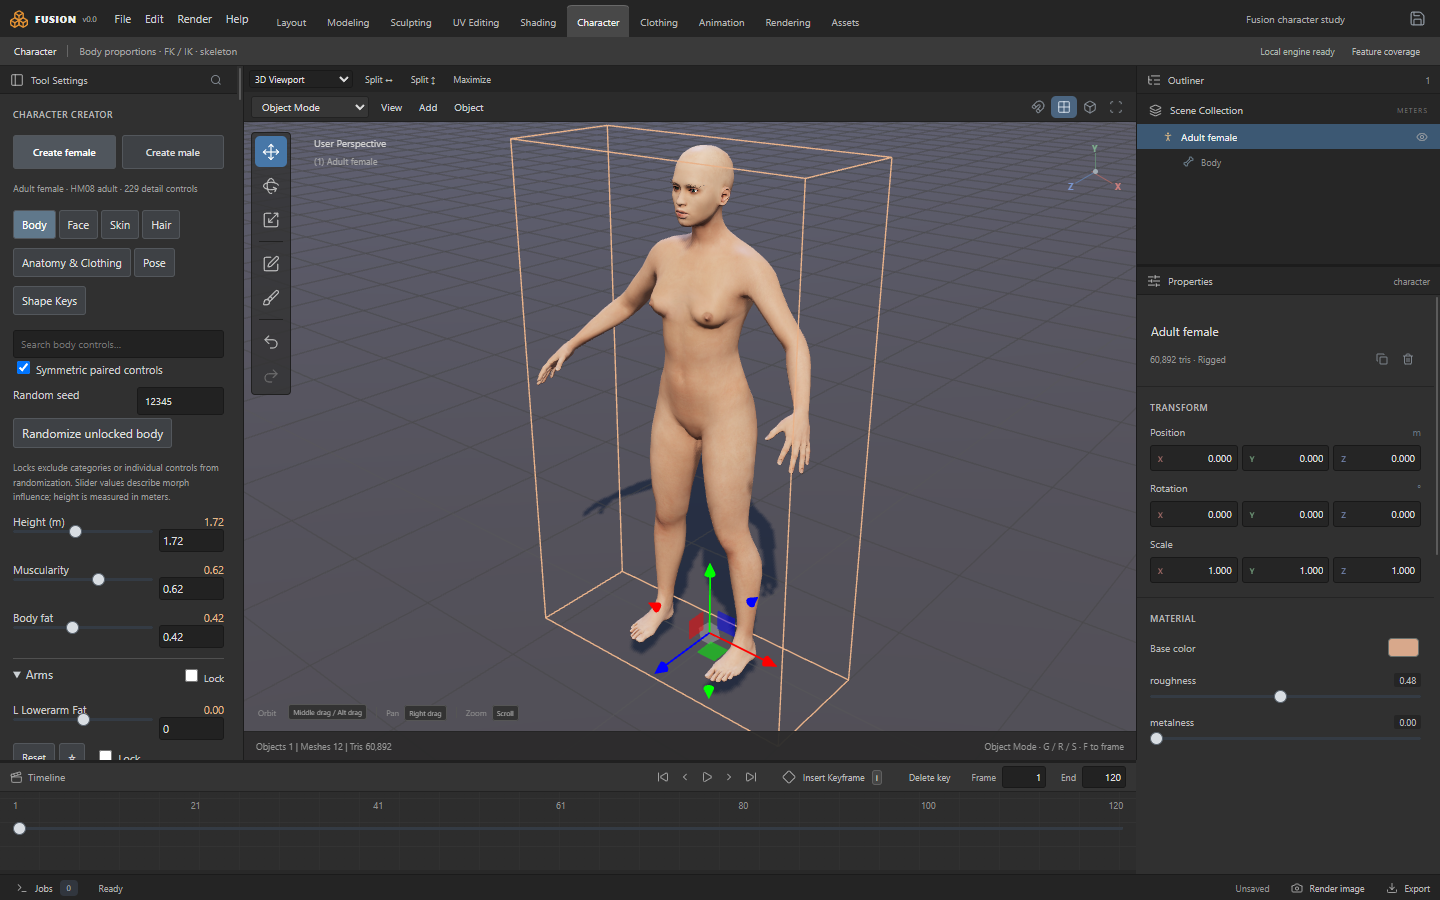
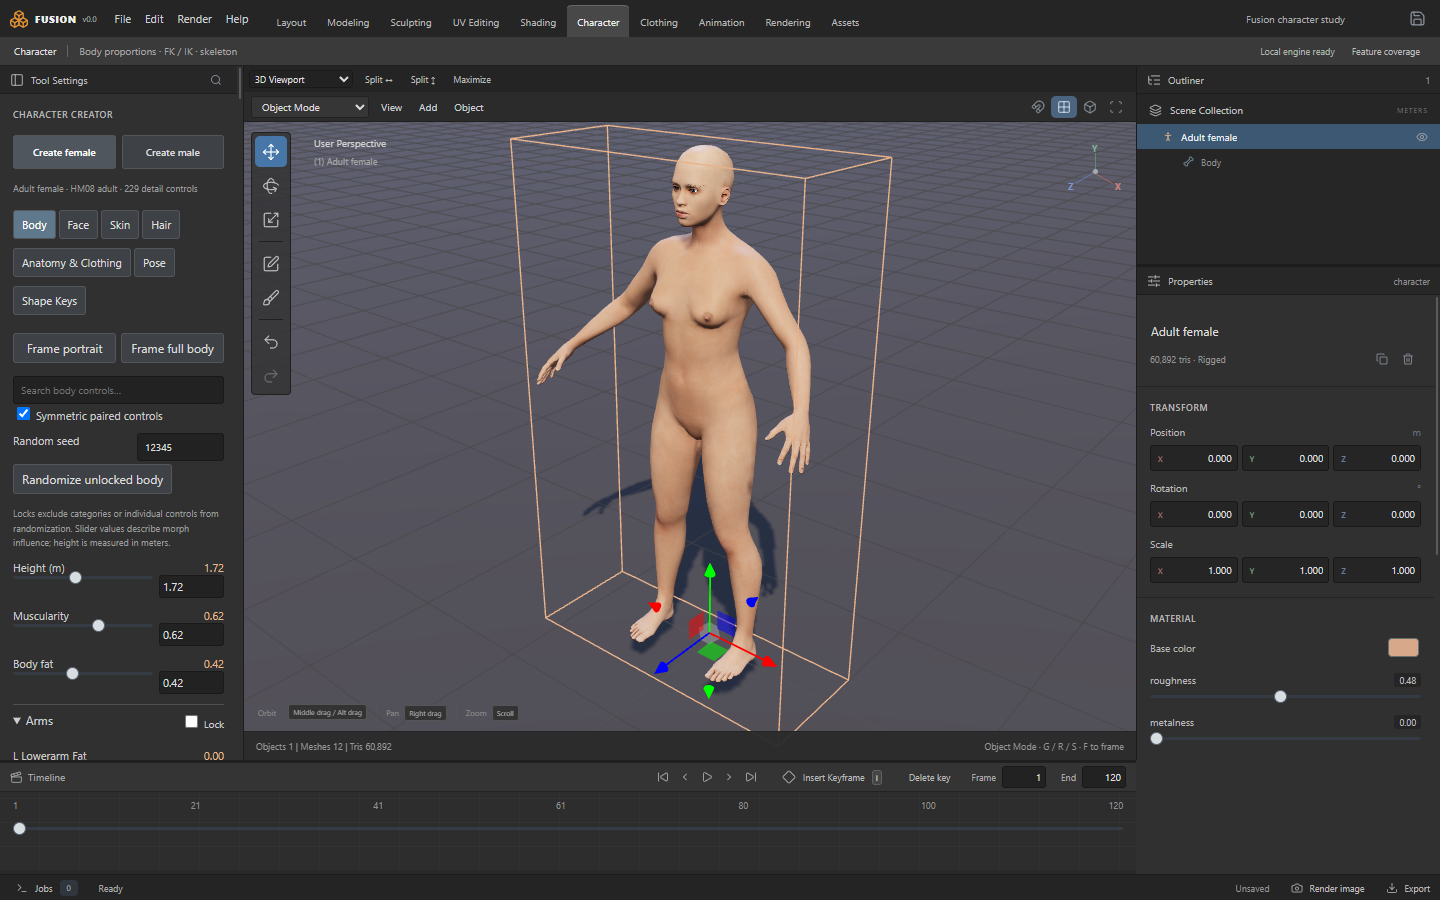
Proper posed clothing workflow, with the fixes it exposed
Workflow now runs create -> body -> face portrait -> skin/hair -> fit T-shirt -> contrapposto pose with clothing -> height change re-fit -> strain inspection, all through the real UI. Fixes found by running it: (1) linked drapes use the 120 s offline execution budget - posed fits were hard-failing at the 30 s interactive timeout; golden drape-preparation hashes refreshed for the new field. (2) Re-drapes initialize from the previous drape transferred by the body skinning (poseInitialPositions, nearest-body-vertex delta field) instead of the neutral arms-down wrap, which posed colliders tore across the face; the extreme 95-degree arm pose still exceeds the solver budget and now rolls back safely instead of corrupting the garment. (3) Frame portrait/full-body buttons are available on every Creator tab, not just Pose. Tests: 224/224 core (incl. 2 new pose-transfer tests), creator UI suite passes with new frame-button assertions.

diff --git a/fusion-studio/src/creator-ui.js b/fusion-studio/src/creator-ui.js
@@ -14,7 +14,7 @@ export function creatorPanel(editor){
  let body=`<div class="creator-create"><button data-creator-create="female" class="button">Create female</button><button data-creator-create="male" class="button">Create male</button></div>`;
  if(!c)return `<section class="library-section creator-panel"><div class="section-heading">CREATE CHARACTER</div>${body}<p class="microcopy">Detailed adult foundation · body and face targets · editable shapes. Private characters remain available through Your Libraries.</p></section>`;
  if(editing)return `<section class="library-section creator-panel"><div class="section-heading">EDIT SHAPE KEY</div><p>${esc(editing.copy.name)}</p><p class="microcopy">Sculpt this neutral, unposed copy. Other shapes and the current pose return when you apply. Vertex count and connectivity must stay unchanged.</p><button id="creator-apply-shape" class="button accent">Apply shape edit</button><button id="creator-cancel-shape">Cancel shape edit</button><label>Brush<select id="creator-brush"><option value="inflate">Draw / Inflate</option><option value="smooth">Smooth</option></select></label>${control('brush.radius','Brush radius',editor.meshTools.brush.radius,.005,.15,.005)}${control('brush.strength','Brush strength',editor.meshTools.brush.strength,.0001,.02,.0001)}</section>`;
- body+=`<p class="microcopy">${esc(root.name)} · HM08 adult · ${c.definition.controls.length} detail controls</p><div class="creator-tabs">${tabs.map(t=>`<button data-creator-tab="${t}" class="${tab===t?'active':''}">${t}</button>`).join('')}</div>`;
+ body+=`<p class="microcopy">${esc(root.name)} · HM08 adult · ${c.definition.controls.length} detail controls</p><div class="creator-tabs">${tabs.map(t=>`<button data-creator-tab="${t}" class="${tab===t?'active':''}">${t}</button>`).join('')}</div><div class="creator-frame-row"><button id="creator-portrait">Frame portrait</button><button id="creator-fullbody">Frame full body</button></div>`;
  if(['Body','Face'].includes(tab)){
   const controls=c.definition.controls.filter(v=>v.category===tab),groups=[...new Set(controls.map(v=>v.id.split('/')[0]))];
   body+=`<input id="creator-search" type="search" value="${esc(search)}" placeholder="Search ${tab.toLowerCase()} controls…" aria-label="Search character controls"><label><input id="creator-symmetry" type="checkbox" ${r.symmetry?'checked':''}> Symmetric paired controls</label><label class="creator-label">Random seed<input id="creator-seed" type="number" min="0" max="4294967295" value="${r.seed}"></label><button id="creator-randomize">Randomize unlocked ${tab.toLowerCase()}</button><p class="microcopy">Locks exclude categories or individual controls from randomization. Slider values describe morph influence; height is measured in meters.</p>`;
@@ -23,7 +23,7 @@ export function creatorPanel(editor){
  }else if(tab==='Skin')body+=`<div class="creator-swatches">${SKIN_TONES.map((color,i)=>`<button data-creator-tone="${i}" style="--skin:${color}" aria-label="Skin tone ${i+1}" aria-pressed="${!r.appearance.customColor&&r.appearance.tone===i}"></button>`).join('')}</div>${control('appearance.undertone','Undertone',r.appearance.undertone,-1,1)}${control('appearance.roughness','Roughness',r.appearance.roughness,.1,.95)}${control('appearance.pores','Pore detail',r.appearance.pores,0,1)}${control('appearance.freckles','Freckles',r.appearance.freckles,0,1)}${control('appearance.ageDetail','Age detail',r.appearance.ageDetail,0,1)}<label>Eye color<input id="creator-eye-color" type="color" value="${r.appearance.eye}"></label><p class="microcopy">Texture-preserving tone adjustment. Viewport subsurface shading is approximate; Cycles uses the retained skin description. Starter bump derives from albedo and is not scanned displacement.</p>`;
  else if(tab==='Hair')body+=`<label>Hairstyle<select id="creator-hair-style">${['bald','short','medium','long','wavy','curly','coily'].map(s=>`<option ${r.hair.style===s?'selected':''}>${s}</option>`).join('')}</select></label><label>Hair color<input id="creator-hair-color" type="color" value="${r.appearance.hair}"></label><label>Root color<input id="creator-root-color" type="color" value="${r.appearance.roots}"></label>${control('appearance.grey','Greying',r.appearance.grey,0,1)}${r.hair.style!=='bald'?control('hair.length','Length',r.hair.length,.5,1.5)+control('hair.volume','Volume',r.hair.volume,.5,1.5)+control('hair.offset','Scalp clearance (m)',r.hair.offset,-.005,.025,.001):''}<p class="microcopy">CC0 authored guides with fitted strand previews. Scalp roots follow head changes; long hair has no body or garment collision. Curly/coily variants are procedural interpretations and still need portrait-quality review.</p>`;
  else if(tab==='Anatomy & Clothing')body+=`<label>Display<select id="creator-coverage">${['nude','underwear','clothed'].map(v=>`<option ${r.visibility.clothing===v?'selected':''}>${v}</option>`).join('')}</select></label><label><input id="creator-anatomy" type="checkbox" ${r.visibility.anatomy?'checked':''}> Show anatomical surface</label><p class="microcopy">Body geometry and skinning remain intact. Starter coverage is a fitted preview shell; use Clothing for designed garments and fit diagnostics.</p>`;
- else if(tab==='Pose')body+=`<div class="pose-grid">${Object.keys(CREATOR_POSES).map(p=>`<button data-creator-pose="${p}">${p}</button>`).join('')}</div><button id="creator-key">Insert character keyframe</button><button id="creator-portrait">Frame portrait</button><button id="creator-fullbody">Frame full body</button><p class="microcopy">Use the joint controls and IK below for individual adjustments. Pose presets use this foundation's joint names and axes.</p>`;
+ else if(tab==='Pose')body+=`<div class="pose-grid">${Object.keys(CREATOR_POSES).map(p=>`<button data-creator-pose="${p}">${p}</button>`).join('')}</div><button id="creator-key">Insert character keyframe</button><p class="microcopy">Use the joint controls and IK below for individual adjustments. Pose presets use this foundation's joint names and axes.</p>`;
  else if(tab==='Shape Keys')body+=`<label>New shape name<input id="creator-shape-name" value="New shape" maxlength="80"></label><button id="creator-new-shape">Create shape key</button>${r.shapes.map(s=>`<section class="creator-morph">${control('shape.'+s.id,s.name,s.value,s.min,s.max)}<label>Name<input data-shape-name="${s.id}" value="${esc(s.name)}" maxlength="80"></label><div class="creator-small-actions">${['edit','duplicate','mirror','delete'].map(action=>`<button data-shape-action="${action}" data-shape-id="${s.id}">${action}</button>`).join('')}</div><label>Min<input type="number" data-shape-bound="min" data-shape-id="${s.id}" value="${s.min}" min="-2" max="2" step=".1"></label><label>Max<input type="number" data-shape-bound="max" data-shape-id="${s.id}" value="${s.max}" min="-2" max="2" step=".1"></label></section>`).join('')}<button id="creator-key">Insert character keyframe</button><p class="microcopy">Edits use the original neutral cage. Mirror uses the foundation's explicit vertex correspondence.</p>`;
  if(tab==='Skin')body+=(r.appearance.customColor?'<p class="microcopy">Custom skin tint from Material properties is active. Choose a tone preset or move Continuous skin tone to return to the tone palette.</p>':'')+control('appearance.tone','Continuous skin tone',r.appearance.tone,0,23,.01);
  if(tab==='Hair')body+=`<label>Facial hair<select id="creator-facial-hair">${['none','beard','moustache'].map(v=>`<option ${(r.hair.facial||'none')===v?'selected':''}>${v}</option>`).join('')}</select></label>`;

diff --git a/fusion-studio/src/hybrid.js b/fusion-studio/src/hybrid.js
@@ -38,6 +38,33 @@ export function captureDrapeInputs(base,character,settings={}){
   if(capture)triangleCollider.positions=canonicalPlacementPositions(triangleCollider.positions);
   return {imported,capture,body,world:world.toArray(),triangleCollider,colliders:imported?[]:characterColliders(character)};
 }
+// Re-drape initialization: carry the previous drape with the body's own skinning.
+// Each cloth vertex follows the delta of its nearest body vertex (bind -> current pose),
+// so posing or reshaping starts the solver from cloth already on the body instead of
+// the neutral arms-down wrap, which posed colliders otherwise tear apart.
+export function poseInitialPositions(prior,character,requestPositions){
+  const mesh=prior?.children?.[0],priorPos=mesh?.geometry?.attributes?.position;
+  if(!priorPos||!Array.isArray(requestPositions)||!requestPositions.length)return null;
+  let skin=null;character.traverse(n=>{if(n.isSkinnedMesh&&!skin)skin=n;});
+  if(!skin?.skeleton||typeof skin.getVertexPosition!=='function')return null;
+  character.updateWorldMatrix(true,true);mesh.updateWorldMatrix(true,true);
+  const neutral=skin.geometry.attributes.position,tmp=new THREE.Vector3(),pw=new THREE.Vector3();
+  const priorWorld=[];for(let i=0;i<priorPos.count;i++)priorWorld.push(new THREE.Vector3().fromBufferAttribute(priorPos,i).applyMatrix4(mesh.matrixWorld));
+  let binding=prior.userData.liveGarment?.poseBinding;
+  if(!Array.isArray(binding)||binding.length!==priorPos.count){
+    const neutralWorld=[];for(let j=0;j<neutral.count;j++)neutralWorld.push(new THREE.Vector3().fromBufferAttribute(neutral,j).applyMatrix4(skin.matrixWorld));
+    binding=new Array(priorPos.count);
+    for(let i=0;i<priorPos.count;i++){let best=0,bd=Infinity;for(let j=0;j<neutralWorld.length;j++){const d=priorWorld[i].distanceToSquared(neutralWorld[j]);if(d<bd){bd=d;best=j;}}binding[i]=best;}
+  }
+  const posed=new Map(),bind=new Map();
+  for(const j of new Set(binding)){bind.set(j,new THREE.Vector3().fromBufferAttribute(neutral,j).applyMatrix4(skin.matrixWorld));skin.getVertexPosition(j,tmp);posed.set(j,tmp.clone().applyMatrix4(skin.matrixWorld));}
+  const deltas=priorWorld.map((p,i)=>{const j=binding[i];return tmp.copy(posed.get(j)).sub(bind.get(j)).clone();});
+  const positions=requestPositions.map(r=>{
+    let best=0,bd=Infinity;for(let i=0;i<priorWorld.length;i++){const d=(r[0]-priorWorld[i].x)**2+(r[1]-priorWorld[i].y)**2+(r[2]-priorWorld[i].z)**2;if(d<bd){bd=d;best=i;}}
+    const delta=deltas[best];return [r[0]+delta.x,r[1]+delta.y,r[2]+delta.z];
+  });
+  return {positions,binding};
+}
 // Synchronous reference entry point for numeric/process tests. UI jobs use the worker.
 export function drapeRequest(base,character,settings={}){return buildDrapeInput(base,captureDrapeInputs(base,character,settings),settings);}
 export async function generateGarment(api,base,character,prior=null,evaluation=null,external={}){
@@ -47,13 +74,14 @@ export async function generateGarment(api,base,character,prior=null,evaluation=n
     if(signal?.aborted)throw Error('Garment update cancelled.');
     const input=surface?await prepareFittedDrape(api,base,character,surface,{context,signal,response:settings.fabricResponse,preview:settings}):await (external.prepare||prepareSurfaceJob)('drapeInput',{base,captured,settings},{context,signal,label:'Garment preparation'}),{placement,request}=input;
     const prepared=placement?await evaluateSourcePlacement(api,placement,prior?.userData.liveGarment?.placement,{context,signal}):null;
-    if(signal?.aborted)throw Error('Garment update cancelled.');const solve=()=>api.geometry('drapeGarment',{...request,...(prepared?{positions:prepared.positions}: {}),context});const result=(surface||settings.fabricResponse)?await runSurfaceStage(api,signal,solve):await solve();
+    const transferred=!prepared&&!surface&&prior?.userData?.liveGarment?poseInitialPositions(prior,character,request.positions):null;
+    if(signal?.aborted)throw Error('Garment update cancelled.');const solve=()=>api.geometry('drapeGarment',{...request,...(prepared?{positions:prepared.positions}:transferred?{positions:transferred.positions}: {}),context});const result=(surface||settings.fabricResponse)?await runSurfaceStage(api,signal,solve):await solve();
     if(signal?.aborted)throw Error('Garment update cancelled.');
     if(!Array.isArray(result.positions)||result.positions.length!==input.data.positions.length/3||result.positions.some(p=>!Array.isArray(p)||p.length!==3||p.some(v=>!Number.isFinite(v))))throw Error('The geometry core returned an invalid drape.');
     let finished=null;if(finishing?.enabled){const raw={positions:Array.from(new Float32Array(result.positions.flat())),uvs:Array.from(new Float32Array(input.data.uvs)),faces:input.data.faces,sewing:input.data.sewing,groups:[]};finished=await (external.prepare||prepareSurfaceJob)('garmentFinish',{doc:input.doc,source:raw,settings:finishing},{context,signal,label:'Garment finishing'});}
-    return {result,prepared,input,finished};
+    return {result,prepared,input,finished,transferred};
   };
-  const {result,prepared,input,finished}=evaluation?await evaluation.run(character,surface?{base,settings,finishing,surface,body:sourcePlacementBody(character)}:{base,settings,finishing,captured},compute):await compute(external.context);
+  const {result,prepared,input,finished,transferred}=evaluation?await evaluation.run(character,surface?{base,settings,finishing,surface,body:sourcePlacementBody(character)}:{base,settings,finishing,captured},compute):await compute(external.context);
   const {doc,data,body,placement,request}=input;
 
   const group=createPatternObject(doc,data),mesh=group.children[0];
@@ -73,6 +101,7 @@ export async function generateGarment(api,base,character,prior=null,evaluation=n
   if(!result.metrics.physicalFabric)issues.push(...clothContactIssues(result.metrics.clothContact));
   group.name=prior?.name||'Live T-shirt';group.userData.liveGarment={version:1,characterId:character.userData.fusion_id,basePattern:structuredClone(base),settings:{steps:request.steps,iterations:request.iterations,...(placement?{placement:'surface'}: {}),...(surface?{executionBudget:'offline'}:{}),...(settings.fabricResponse?{fabricResponse:fabricResponse(settings.fabricResponse)}:{})},body:structuredClone(body),quality:data.quality||null,metrics:result.metrics,solver:result.solver,...(prepared?{placement:prepared.cache,placementDiagnostics:prepared.diagnostics}: {})};
   if(surface){group.userData.liveGarment.fittedSurface=structuredClone(surface);group.userData.liveGarment.fittedDiagnostics=input.fittedDiagnostics;}
+  if(transferred)group.userData.liveGarment.poseBinding=transferred.binding;
   group.userData.liveGarment.diagnostics={converged:issues.length===0,issues};
   group.userData.simulationApplied=true;group.userData.source='Fusion live garment';
   if(prior?.uuid){group.uuid=prior.uuid;group.userData.fusion_id=prior.userData.fusion_id;group.visible=prior.visible;}

diff --git a/fusion-studio/src/creator.css b/fusion-studio/src/creator.css
@@ -1,2 +1,2 @@
-.creator-panel{padding-top:12px}.creator-create{display:grid;grid-template-columns:1fr 1fr;gap:6px}.creator-tabs{display:flex;flex-wrap:wrap;gap:3px;margin:12px 0}.creator-tabs button{font-size:11px;padding:5px 7px}.creator-tabs .active{background:#64798b;color:white}.creator-label{display:flex;justify-content:space-between;gap:6px;font-size:11px;color:#ccc;margin-top:10px}.creator-value{color:#e3b98c;font-variant-numeric:tabular-nums}.creator-control{display:grid;grid-template-columns:minmax(70px,1fr) 65px;gap:6px;align-items:center}.creator-control input{min-width:0;width:100%}.creator-control input[type=number]{padding:3px;font-size:11px}.creator-category{border-top:1px solid #505050;margin-top:10px}.creator-category summary{padding:7px 0;text-transform:capitalize}.creator-category summary label{float:right;font-size:10px;font-weight:normal}.creator-morph{padding:3px 0 7px;border-bottom:1px solid #444}.creator-small-actions{display:flex;align-items:center;gap:4px}.creator-small-actions button,.creator-small-actions label{font-size:10px;padding:3px 6px}.creator-small-actions button[aria-pressed=true]{color:#ffc87b}.creator-swatches{display:grid;grid-template-columns:repeat(6,1fr);gap:5px;margin:12px 0}.creator-swatches button{height:29px;background:var(--skin);border:2px solid transparent;border-radius:4px}.creator-swatches button[aria-pressed=true]{border-color:#efb773;box-shadow:0 0 0 1px #111}.creator-panel input[type=search]{width:100%}.creator-panel select{width:100%;margin:5px 0}.creator-panel input[type=color]{display:block;margin:5px 0;width:100%;height:26px}
+.creator-panel{padding-top:12px}.creator-frame-row{display:flex;gap:5px;margin:0 0 10px}.creator-frame-row button{flex:1}.creator-create{display:grid;grid-template-columns:1fr 1fr;gap:6px}.creator-tabs{display:flex;flex-wrap:wrap;gap:3px;margin:12px 0}.creator-tabs button{font-size:11px;padding:5px 7px}.creator-tabs .active{background:#64798b;color:white}.creator-label{display:flex;justify-content:space-between;gap:6px;font-size:11px;color:#ccc;margin-top:10px}.creator-value{color:#e3b98c;font-variant-numeric:tabular-nums}.creator-control{display:grid;grid-template-columns:minmax(70px,1fr) 65px;gap:6px;align-items:center}.creator-control input{min-width:0;width:100%}.creator-control input[type=number]{padding:3px;font-size:11px}.creator-category{border-top:1px solid #505050;margin-top:10px}.creator-category summary{padding:7px 0;text-transform:capitalize}.creator-category summary label{float:right;font-size:10px;font-weight:normal}.creator-morph{padding:3px 0 7px;border-bottom:1px solid #444}.creator-small-actions{display:flex;align-items:center;gap:4px}.creator-small-actions button,.creator-small-actions label{font-size:10px;padding:3px 6px}.creator-small-actions button[aria-pressed=true]{color:#ffc87b}.creator-swatches{display:grid;grid-template-columns:repeat(6,1fr);gap:5px;margin:12px 0}.creator-swatches button{height:29px;background:var(--skin);border:2px solid transparent;border-radius:4px}.creator-swatches button[aria-pressed=true]{border-color:#efb773;box-shadow:0 0 0 1px #111}.creator-panel input[type=search]{width:100%}.creator-panel select{width:100%;margin:5px 0}.creator-panel input[type=color]{display:block;margin:5px 0;width:100%;height:26px}
 .creator-panel button{border:1px solid #53575c;border-radius:3px;background:#3e4145;color:#ddd;padding:6px 8px;cursor:pointer;margin:3px 0}.creator-panel button:hover{background:#50565d}.creator-panel button:disabled{opacity:.5;cursor:default}.creator-panel label{font-size:11px;color:#ccc}.creator-panel .pose-grid{gap:5px}.creator-panel .creator-swatches button{background:var(--skin);padding:0}.creator-panel .creator-create .button{padding:9px 5px}.creator-panel .creator-tabs button.active{background:#60788b}

diff --git a/fusion-studio/src/drape-preparation.js b/fusion-studio/src/drape-preparation.js
@@ -35,6 +35,6 @@ export function buildDrapeInput(base,captured,settings={}){
   }
   const fabrics={cotton:[1e-7,1e-4],denim:[1e-8,1e-5],silk:[5e-7,1e-3]};const [stretch,bend]=fabrics[doc.fabric];
   const detailed=imported||base.version===2;
-  const input={doc,data,body,placement:capture?{capture,positions:sourcePositions,faces:data.faces,sewing:data.sewing,pins:data.pins}:null,request:{...(detailed?{triangleCollider,seamTopology:base.version===2,solidContact:imported,initializeOutside:imported,materialCoordinates:Array.from({length:data.uvs.length/2},(_,i)=>data.uvs.slice(i*2,i*2+2)),fabricCompliance:[stretch,stretch*1.5,stretch*3],friction:.25,triangleSelfCollision:true}:{}),positions,restPositions:capture?canonicalPlacementPositions(restPositions):restPositions,faces:data.faces,sewing:data.sewing,pins:data.pins,colliders,steps:settings.steps??160,iterations:settings.iterations??10,stretch,bend,thickness:.003,selfCollision:true}};
+  const input={doc,data,body,placement:capture?{capture,positions:sourcePositions,faces:data.faces,sewing:data.sewing,pins:data.pins}:null,request:{...(detailed?{triangleCollider,seamTopology:base.version===2,solidContact:imported,initializeOutside:imported,materialCoordinates:Array.from({length:data.uvs.length/2},(_,i)=>data.uvs.slice(i*2,i*2+2)),fabricCompliance:[stretch,stretch*1.5,stretch*3],friction:.25,triangleSelfCollision:true}:{}),positions,restPositions:capture?canonicalPlacementPositions(restPositions):restPositions,faces:data.faces,sewing:data.sewing,pins:data.pins,colliders,steps:settings.steps??160,iterations:settings.iterations??10,stretch,bend,thickness:.003,selfCollision:true,executionBudget:'offline'}};
   if(settings.fabricResponse){input.request.materialCoordinates=Array.from({length:data.uvs.length/2},(_,i)=>data.uvs.slice(i*2,i*2+2));input.request=applyFabricResponse(input.request,settings.fabricResponse,new THREE.Vector3().setFromMatrixColumn(world,0).length());}checkDrapeWork(input.request);return input;
 }

diff --git a/README.md b/README.md
@@ -13,23 +13,28 @@ The whole pipeline in six steps, captured from the running app (`npm run showcas
 ![Character to clothing workflow](fusion-studio/docs/showcase/demo-workflow.gif)
 
 1. **Create & shape** — Create female, then height 1.72 m, muscularity and body-fat shaping with 229 detail controls.
-2. **Face** — face-tab morph controls.
-3. **Skin & hair** — skin-tone preset, long hairstyle with fitted strand preview (portrait framing shown below).
-4. **Pose** — contrapposto preset from the Pose tab (standing restored before fitting).
-5. **Make clothing** — Clothing → *Fit T-shirt to target character*: retained panels are graded to her body and draped with the Rust XPBD solver. The panel reports live diagnostics (here: 1,344 vertices, 5.9 mm mean seam gap, flagged "Needs refinement" — Fusion shows its fit limits instead of hiding them).
-6. **Inspect fit** — *Show strain colors* heatmap: blue 0% → red ≥25% local edge strain, hot at the right shoulder.
+2. **Face** — face morphs (cheek bones here), with *Frame portrait* for a real close-up — now available on every Creator tab.
+3. **Skin & hair** — skin-tone preset and long hairstyle with fitted strand preview, portrait-framed.
+4. **Make clothing** — Clothing → *Fit T-shirt to target character*: retained panels are graded to her body and draped with the Rust XPBD solver (offline budget; the panel reports live seam/strain diagnostics).
+5. **Pose with clothing** — apply the contrapposto preset: the linked garment re-drapes onto the posed body, initialized from the previous drape carried by the body's own skinning instead of the neutral wrap.
+6. **Change the body** — height raised to 1.78 m; the garment re-grades and re-drapes itself, and reports the new strain honestly (max local strain 97.9% — refinement still needed, and Fusion says so).
+7. **Inspect fit** — *Show strain colors* heatmap on the posed, re-fitted shirt: blue 0% → red ≥25% local edge strain.
 
-| 1 · Body | 2 · Face |
+| 1 · Body | 2 · Face portrait |
 | --- | --- |
-| ![Body shaping](fusion-studio/docs/showcase/w1-body.png) | ![Face controls](fusion-studio/docs/showcase/w2-face.png) |
+| ![Body shaping](fusion-studio/docs/showcase/w1-body.png) | ![Face portrait](fusion-studio/docs/showcase/w2-face.png) |
 
-| 3 · Skin & hair | 4 · Pose |
+| 3 · Skin & hair | 4 · Draped T-shirt |
 | --- | --- |
-| ![Skin and hair](fusion-studio/docs/showcase/w3-skin-hair.png) | ![Pose preset](fusion-studio/docs/showcase/w4-pose.png) |
+| ![Skin and hair](fusion-studio/docs/showcase/w3-skin-hair.png) | ![Draped T-shirt](fusion-studio/docs/showcase/w4-garment.png) |
 
-| 5 · Draped T-shirt | 6 · Strain inspection |
+| 5 · Posed clothing | 6 · Body change re-fit |
 | --- | --- |
-| ![Draped T-shirt](fusion-studio/docs/showcase/w5-garment.png) | ![Strain heatmap](fusion-studio/docs/showcase/w6-strain.png) |
+| ![Posed clothing](fusion-studio/docs/showcase/w5-posed-clothing.png) | ![Re-fit after body change](fusion-studio/docs/showcase/w6-refit.png) |
+
+| 7 · Strain inspection | |
+| --- | --- |
+| ![Strain heatmap](fusion-studio/docs/showcase/w7-strain.png) | |
 
 Live sculpting with the brush panel — Draw brush strokes on a sphere, straight from the real app:
 
@@ -86,7 +91,7 @@ Requires Node 20+, Python 3 with Pillow/NumPy for the asset scripts, and (for re
 ## Tests
 
 ```powershell
-npm test                  # 222 core tests
+npm test                  # 224 core tests
 npm run test:sculpt       # sculpt brush engine
 npm run test:creator      # Character Creator (builds first)
 npm run test:interchange  # glTF validation + tangents
